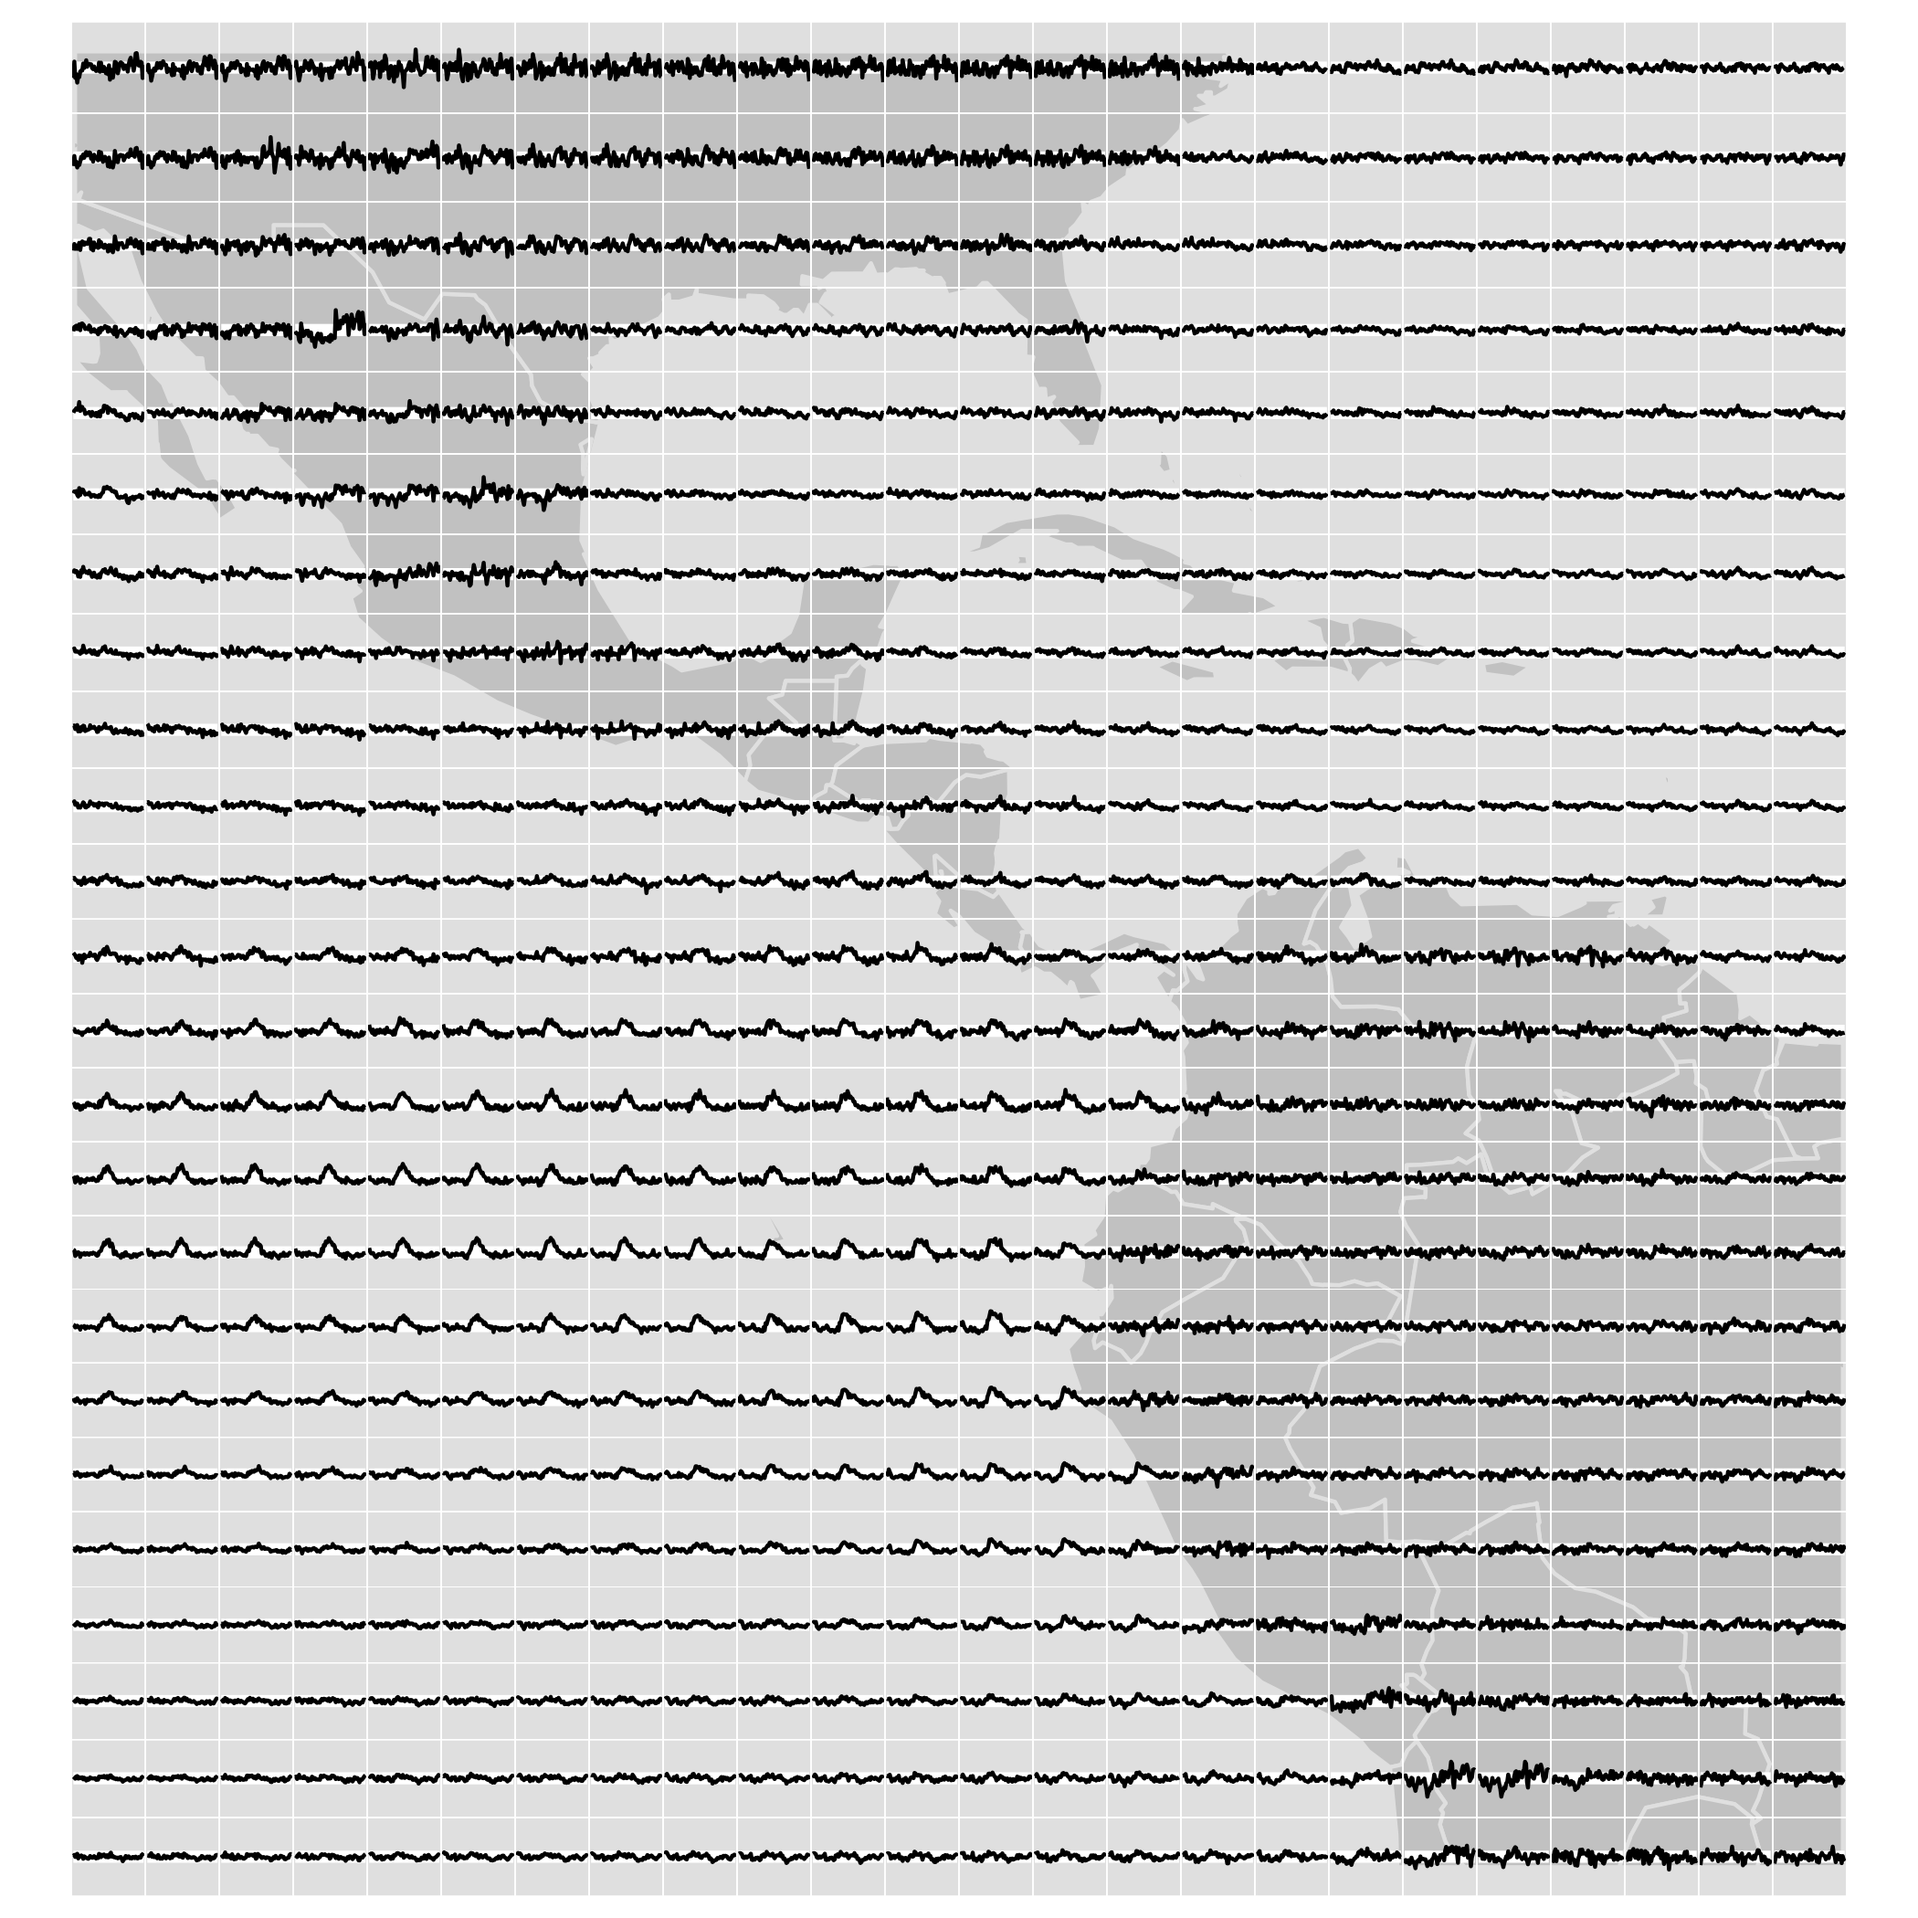
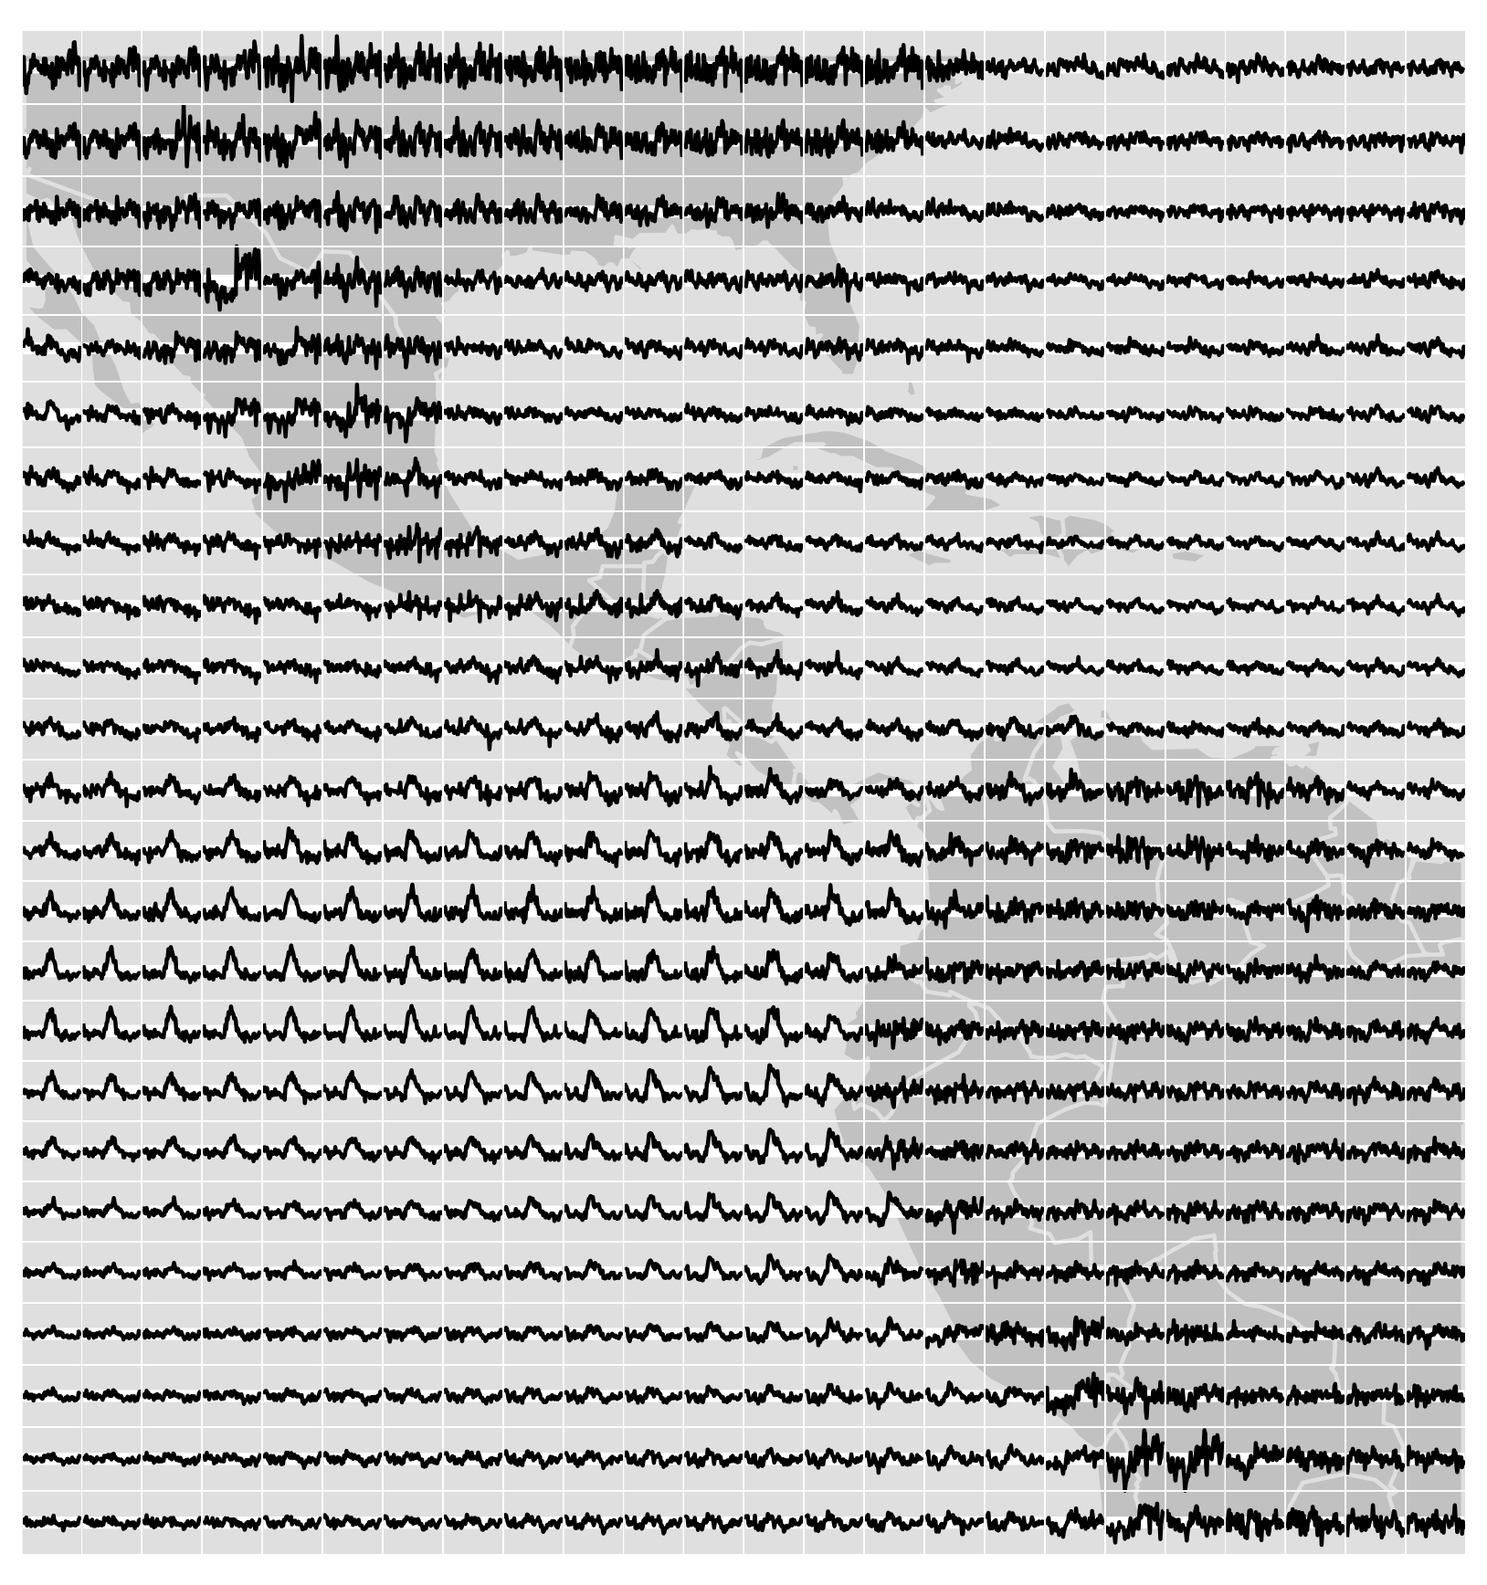
perception section

diff --git a/paper.tex b/paper.tex
@@ -246,21 +246,27 @@ For star glyphs, the reference frames are also useful, but the reference line wo
 
 \section{Perception of structure}~\label{sec:scale}
 
-Compare the facetted map Figure \ref{facetted-map} with the glyph-map
-of de-seasonalized data in Figure \ref{fig:nasa-deseas-glyph}.
-
 Glyph-maps using trend lines enable the reading of trends across
 spatial locations directly from the plot. In comparison, to read trend
 from facetted colored maps one needs to spot the difference between
-the different maps. A more direct comparison would be to make a single
-map with the slope of the trend coded as color. Cleveland's
-\citep{cleveland:1993a} perceptual tests suggests that the reader can
-perceive the positional difference of the lines better than the color
-differences. Accurate perception of color differences is difficult.
+the different maps.  Compare the facetted map in Figure
+\ref{fig:facetted-map} with the glyph-map of de-seasonalized data in
+Figure \ref{fig:nasa-deseas-glyph}. The glyph-map provides a texturing
+over the map. The El Ni\~no event is still primary structure, visible
+as the region that has a bump in the middle of the time series, the
+hot 1997-1998 period. We can also see that the temperatures are
+generally more varied over land. There are a few locations with
+dramatically increasing temperature in the later years
+
+Another common approach is to compute the slope at each location code
+this as color on the map. Cleveland's \citep{cleveland:1993a}
+perceptual tests suggests that the reader can perceive the positional
+difference of the lines better than the color differences. Accurate
+perception of color differences is difficult.
 
 \begin{figure*}[htp]
-\centerline{\includegraphics[width=6in]{nasa-deseas-glyph.png}}
-\caption{Glyph-map of de-seasonalized temperature, to compare with Figure \ref{facetted-map}. }
+\centerline{\includegraphics[width=5in]{nasa-deseas-glyph.png}}
+\caption{Glyph-map of de-seasonalized temperature, to compare with Figure \ref{fig:facetted-map}. }
 \label{fig:nasa-deseas-glyph}
 \end{figure*}
 
